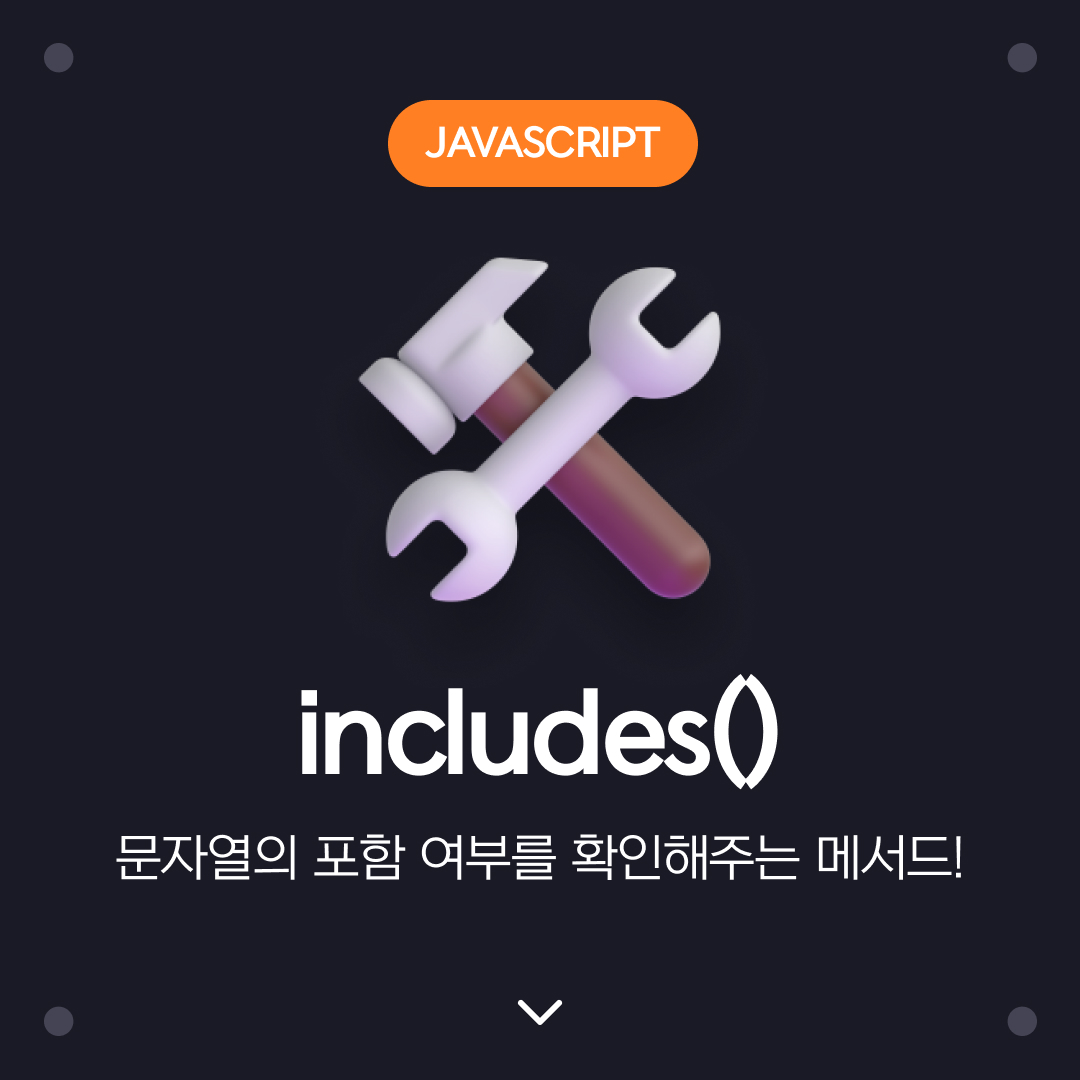
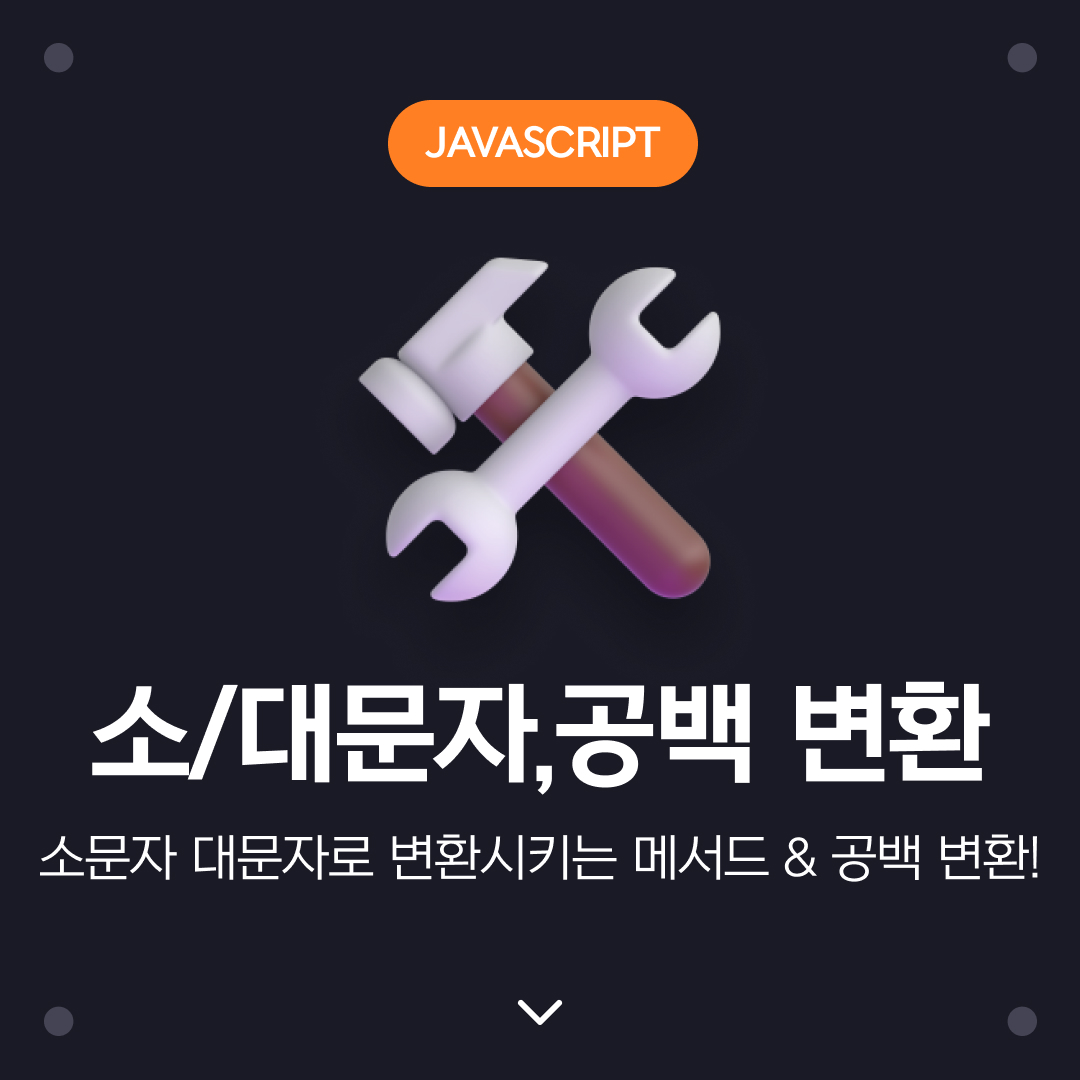
2022.08.18
add(2)

Changed region(s): [[0.0917, 0.6111, 0.9167, 0.7333], [0.0306, 0.7639, 0.9778, 0.825]]

diff --git a/javascript/study/web_lower_upper_trim.html b/javascript/study/web_lower_upper_trim.html
@@ -1,0 +1,243 @@
+<!DOCTYPE html>
+<html lang="ko">
+
+<head>
+    <meta charset="UTF-8">
+    <meta http-equiv="X-UA-Compatible" content="IE=edge">
+    <meta name="viewport" content="width=device-width, initial-scale=1.0">
+    <title>자바스크립트 : 요소 객체</title>
+    <link rel="stylesheet" href="../assets/css/style.css">
+    <link rel="stylesheet" href="../assets/css/dracula.css">
+</head>
+
+<body>
+    <header id="header">
+        <h1><a href="index.html">Javascript</a></h1>
+        <nav class="header_nav">
+            <ul>
+                <li><a href="../javascript01.html">데이터 저장하기</a></li>
+                <li><a href="../javascript02.html">데이터 불러오기</a></li>
+                <li><a href="../javascript03.html">데이터 실행하기</a></li>
+                <li><a href="../javascript04.html">데이터 제어하기</a></li>
+            </ul>
+            <ul>
+                <li><a href="../javascript05.html">문자열 객체</a></li>
+                <li><a href="../javascript06.html">배열 객체</a></li>
+                <li><a href="../javascript07.html">수학 객체</a></li>
+                <li><a href="../javascript08.html">숫자 객체</a></li>
+                <li><a href="../javascript09.html">브라우저 객체</a></li>
+                <li><a href="../javascript10.html">요소 객체</a></li>
+                <li><a href="../javascript11.html">이벤트 객체</a></li>
+            </ul>
+            <ul class="effect">
+                <li><a href="../effect/searchEffect01.html">검색 효과</a></li>
+                <li><a href="../effect/quizEffect01.html">퀴즈 효과</a></li>
+                <li><a href="../effect/textEffect01.html">텍스트 효과</a></li>
+                <li><a href="../effect/mouseEffect01.html">마우스 효과</a></li>
+                <li><a href="../effect/sliderEffect01.html">슬라이드 효과</a></li>
+                <li><a href="../effect/parallaxEffect01.html">패럴랙스 효과</a></li>
+                <li><a href="../effect/gameEffect01.html">게임 효과</a></li>
+            </ul>
+            <ul class="study">
+                <li><a href="basic.html">기본 규칙</a></li>
+                <li><a href="operator.html">연산자</a></li>
+                <li><a href="for.html">반복문</a></li>
+                <li><a href="if.html">조건문</a></li>
+                <li><a href="type.html">데이터 타입</a></li>
+                <li><a href="function.html">함수</a></li>
+                <li><a href="var.html">지역변수/전역변수</a></li>
+                <li><a href="element.html">요소 선택</a></li>
+                <li><a href="web_search_effect.html">서치 이펙트</a></li>
+                <li><a href="web_slice.html">slice/substring/substr</a></li>
+                <li><a href="web_vector_bitmap.html">벡터와 비트맵</a></li>
+                <li><a href="web_standards.html">웹 표준</a></li>
+                <li><a href="web_pop_join_push.html">POP/JOIN/PUSH</a></li>
+                <li><a href="web_naejang.html">내장 함수</a></li>
+                <li><a href="web_media_query.html">미디어쿼리</a></li>
+                <li><a href="web_jeongyu.html">정규 표현식</a></li>
+                <li><a href="web_indexOf.html">indexOf()</a></li>
+                <li><a href="web_homework.html">사이트 예제 만들기</a></li>
+                <li><a href="web_replace_replaceAll.html">replace/replaceAll</a></li>
+                <li><a href="concat">concat</a></li>
+            </ul>
+        </nav>
+    </header>
+    <!-- //header -->
+
+    <main id="main">
+        <div class="main_menu">
+            <ul>
+                <!--ul>li*17>a[href="#"]{$$} 사용함-->
+                <li><a href="#">01. 요소 메서드 : 선택자 : document.querySelector() : 요소 선택자</a></li>
+                <!--요즘 스타일-->
+                <li><a href="#">01. 요소 메서드 : 선택자 : document.querySelectorAll() : 모든 요소 선택자</a></li>
+                <!--요즘 스타일-->
+                <li><a href="#">01. 요소 메서드 : 선택자 : document.getElementById() : 아이디 요소 선택자</a></li>
+                <!--옛날 스타일-->
+                <li><a href="#">01. 요소 메서드 : 선택자 : document.getElementByClassName() : 클래스 요소 선택자</a></li>
+                <!--옛날 스타일-->
+                <li><a href="#">01. 요소 메서드 : 선택자 : document.getTagName() : 태그 요소 선택자</a></li>
+                <br>
+                <li><a href="#">01. 요소 메서드 : 텍스트 : innerText() : 요소에 텍스트 설정하기</a></li>
+                <li><a href="#">01. 요소 메서드 : 텍스트 : textContent() : 요소에 텍스트 설정하기</a></li>
+                <li><a href="#">01. 요소 메서드 : 텍스트 : innerHTML() : 요소에 텍스트(태그인식) 설정하기</a></li>
+                <li><a href="#">01. 요소 메서드 : 텍스트 : outerHTML() : 요소에 텍스트(태그인식) 설정하기</a></li>
+                <br>
+                <li><a href="#">01. 요소 메서드 : 클래스 : classList.add() : 클래스 추가하기</a></li>
+                <li><a href="#">01. 요소 메서드 : 클래스 : classList.remove() : 클래스 삭제하기</a></li>
+                <li><a href="#">01. 요소 메서드 : 클래스 : classList.toggle() : 클래스 추가/삭제하기</a></li>
+                <li><a href="#">01. 요소 메서드 : 클래스 : classList.contains() : 클래스 존재 여부 확인하기</a></li>
+            </ul>
+        </div>
+        <main id="main">
+            <div class="document">
+                <!-- 1번 -->
+                <div id="sample01" class="sample">
+                    <h3 class="t_tit2">toUpperCase() / toLowerCase</h3>
+                    <p class="t_desc2">toUpperCase는 문자열을 대문자로 변경하고, toLowerCase는 문자열을 소문자로 변경</p>
+                    <div class="table">
+                        <table>
+                            <colgroup>
+                                <col style="width: 5%">
+                                <col style="width: 32%">
+                                <col style="width: 22%">
+                                <col style="width: 42%">
+                            </colgroup>
+                            <thead>
+                                <tr>
+                                    <th>번호</th>
+                                    <th>기본값</th>
+                                    <th>메서드</th>
+                                    <th>리턴값</th>
+                                </tr>
+                            </thead>
+                            <tbody>
+                                <tr>
+                                    <td class="sample02_N1">1</td>
+                                    <td class="sample02_Q1">javascript</td>
+                                    <td class="sample02_M1">toUpperCase()</td>
+                                    <td class="sample02_P1">JAVASCRIPT</td>
+                                </tr>
+                                <tr>
+                                    <td class="sample02_N2">2</td>
+                                    <td class="sample02_Q2">javascript</td>
+                                    <td class="sample02_M2">toLowerCase()</td>
+                                    <td class="sample02_P2">JAVASCRIPT</td>
+                                </tr>
+                                
+                            </tbody>
+                        </table>
+                    </div>
+                    
+                    <div class="script">
+                        <div class="t_code">
+                <!-- 3. 하단의 클래스를 통해 스크립트(js) 적용 -->
+<pre><code class="language-js">const str1 = "javascript";
+const currentStr1 = str1.toUpperCase();
+    
+document.querySelector(".sample02_N1").innerHTML="1";
+document.querySelector(".sample02_Q1").innerHTML="javascript";
+document.querySelector(".sample02_M1").innerHTML="toUpperCase()";
+document.querySelector(".sample02_P1").innerHTML=currentStr1;
+                
+const str2 = "JAVASCRIPT";
+const currentStr2 = str1.toUpperCase();
+    
+document.querySelector(".sample02_N2").innerHTML="2";
+document.querySelector(".sample02_Q2").innerHTML="JAVASCRIPT";
+document.querySelector(".sample02_M2").innerHTML="toLowerCase()";
+document.querySelector(".sample02_P2").innerHTML=currentStr2;
+</code></pre>
+                        </div>
+                    </div>
+                    
+                    <hr>
+
+                    <h3 class="t_tit2">trim() : 문자 / trimStart() / trimEnd() :</h3>
+                    <p class="t_desc2">문자열의 공백을 제거해주는 메서드 입니다.</p>
+                    <div class="table">
+                        <table>
+                            <colgroup>
+                                <col style="width: 5%">
+                                <col style="width: 32%">
+                                <col style="width: 22%">
+                                <col style="width: 42%">
+                            </colgroup>
+                            <thead>
+                                <tr>
+                                    <th>번호</th>
+                                    <th>기본값</th>
+                                    <th>메서드</th>
+                                    <th>리턴값</th>
+                                </tr>
+                            </thead>
+                            <tbody>
+                                <tr>
+                                    <td class="sample03_N1">1</td>
+                                    <td class="sample03_Q1">javascript</td>
+                                    <td class="sample03_M1">trim()</td>
+                                    <td class="sample03_P1">javascript</td>
+                                </tr>
+                                <tr>
+                                    <td class="sample03_N2">2</td>
+                                    <td class="sample03_Q2">javascript</td>
+                                    <td class="sample03_M2">trimStart()</td>
+                                    <td class="sample03_P2">javascript</td>
+                                </tr>
+                                <tr>
+                                    <td class="sample03_N3">3</td>
+                                    <td class="sample03_Q3">javascript</td>
+                                    <td class="sample03_M3">trimEnd()</td>
+                                    <td class="sample03_P3">javascript</td>
+                                </tr>
+                            </tbody>
+                        </table>
+                    </div>
+                
+                <div class="script">
+                    <div class="t_code">
+            <!-- 3. 하단의 클래스를 통해 스크립트(js) 적용 -->
+<pre><code class="language-js">const str1 = "         javascript         ";
+const currentStr1 = str1.trim();
+
+document.querySelector(".sample03_N1").innerHTML="1";
+document.querySelector(".sample03_Q1").innerHTML=str1;
+document.querySelector(".sample03_M1").innerHTML="trim()";
+document.querySelector(".sample03_P1").innerHTML=currentStr1;
+
+const str2 = "         javascript         ";
+const currentStr2 = str2.trimStart();
+
+document.querySelector(".sample03_N2").innerHTML="2";
+document.querySelector(".sample03_Q2").innerHTML=str2;
+document.querySelector(".sample03_M2").innerHTML="trimStart()";
+document.querySelector(".sample03_P2").innerHTML=currentStr2;
+
+const str3 = "         javascript         ";
+const currentStr3 = str3.trimEnd();
+
+document.querySelector(".sample03_N3").innerHTML="3";
+document.querySelector(".sample03_Q3").innerHTML=str3;
+document.querySelector(".sample03_M3").innerHTML="trimEnd()"
+document.querySelector(".sample03_P3").innerHTML=currentStr3;
+</code></pre>
+                </div>
+            </div>
+                </div>
+            </div>
+
+        </main>
+        <!-- //main -->
+
+        <footer id="footer">
+            <a href="mailto:webstoryboy@naver.com">webstoryboy@naver.com</a>
+        </footer>
+        </footer>
+        <!-- //footer -->
+        <script src="../assets/js/highlight.min.js"></script>
+        <script>
+            hljs.highlightAll();
+        </script>
+</body>
+
+</html>

diff --git a/javascript/effect/searchEffect02.html b/javascript/effect/searchEffect02.html
@@ -43,7 +43,7 @@
             <div class="search__list">
                 <div class="html">
                     <ul>
-                        <li data-name="accent-color"><strong>accent-color</strong> : 다른 페이지 이동을 설정합니다.</li>
+                        <li data-name="accent-color" data-type="플렉스"><strong>accent-color</strong> : 다른 페이지 이동을 설정합니다.</li>
                         <li data-name="align-content" data-type="플렉스"><strong>align-content</strong> : 콘텐츠 아이템의 상하관계 정렬 상태를 설정합니다.</li>
                         <li data-name="animation" data-type="애니메이션"><strong>animation</strong> : 애니메이션과 관련된 속성을 일괄적으로 설정합니다.</li>
                         <li data-name="animation-delay" data-type="애니메이션"><strong>animation-delay</strong> : 애니메이션 지연 시간을 설정합니다.</li>
@@ -180,10 +180,11 @@
 
             searchList.forEach(el => {
                 const cssName  = el.dataset.name;       //css 속성(searchList(.search__list ul li)) 모든 값
+                const cssType  = el.dataset.type;       //css 속성(searchList(.search__list ul li)) 모든 값
                 // const cssType  = el.dataset.type;       //css 속성(searchList(.search__list ul li)) 모든 값
                 // console.log(cssName)
 
-                if(cssName.includes(searchWord)){       //cssName에 searchWord 가 포함되어있으면
+                if(cssName.includes(searchWord)||cssType.includes(searchWord)){       //cssName에 searchWord 가 포함되어있으면
                     el.classList.remove("hide")            //true일시 hide 클래스 제거
                 } else {
                     el.classList.add("hide")         //false일시 hide 클래스 추가

diff --git a/javascript/study/web_search_effect_02.html b/javascript/study/web_search_effect_02.html
@@ -487,20 +487,22 @@ const searchInfo = document.querySelectorAll(".search__info .num");    //전체 
 // for(let i=1; i<=searchList.length; i++){
 //     document.querySelector(".num").innerHTML=i
 // }
+
 document.querySelector(".num").innerHTML=searchList.length
-//
 
 searchBox.addEventListener("keyup", ()=>{
     const searchWord = searchBox.value          //사용자가 입력한 키워드
     searchList.forEach(el => {
         const cssName  = el.dataset.name;       //css 속성(searchList(.search__list ul li)) 모든 값
+        const cssType  = el.dataset.type;       //css 속성(searchList(.search__list ul li)) 모든 값
         // const cssType  = el.dataset.type;       //css 속성(searchList(.search__list ul li)) 모든 값
         // console.log(cssName)
-        if(cssName.includes(searchWord)){       //cssName에 searchWord 가 포함되어 있으면
+        if(cssName.includes(searchWord)||cssType.includes(searchWord)){       //cssName에 searchWord가 포함되어 있거나 cssType에 searchWord가 포함되어 있으면
             el.classList.remove("hide")            //true일시 hide 클래스 제거
         } else {
             el.classList.add("hide")         //false일시 hide 클래스 추가
         }
+        
     })
 })
 </code></pre>
